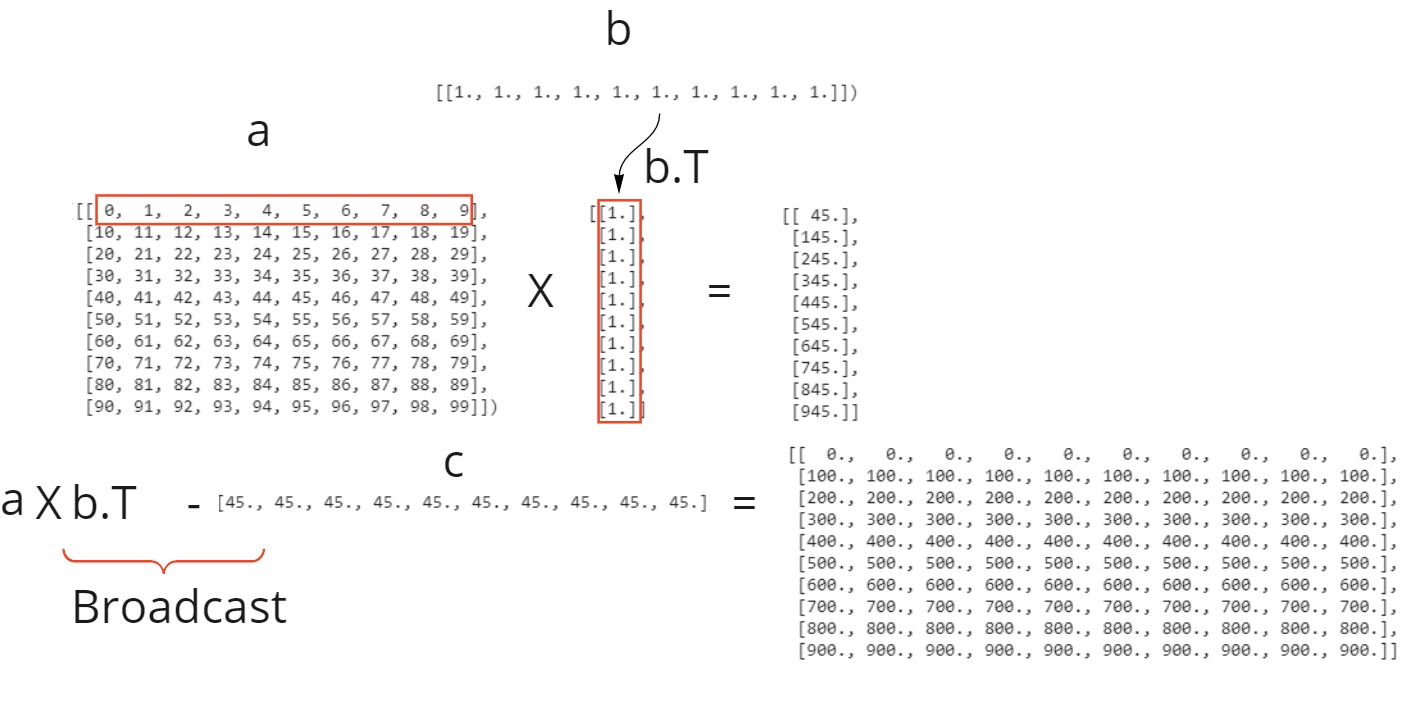
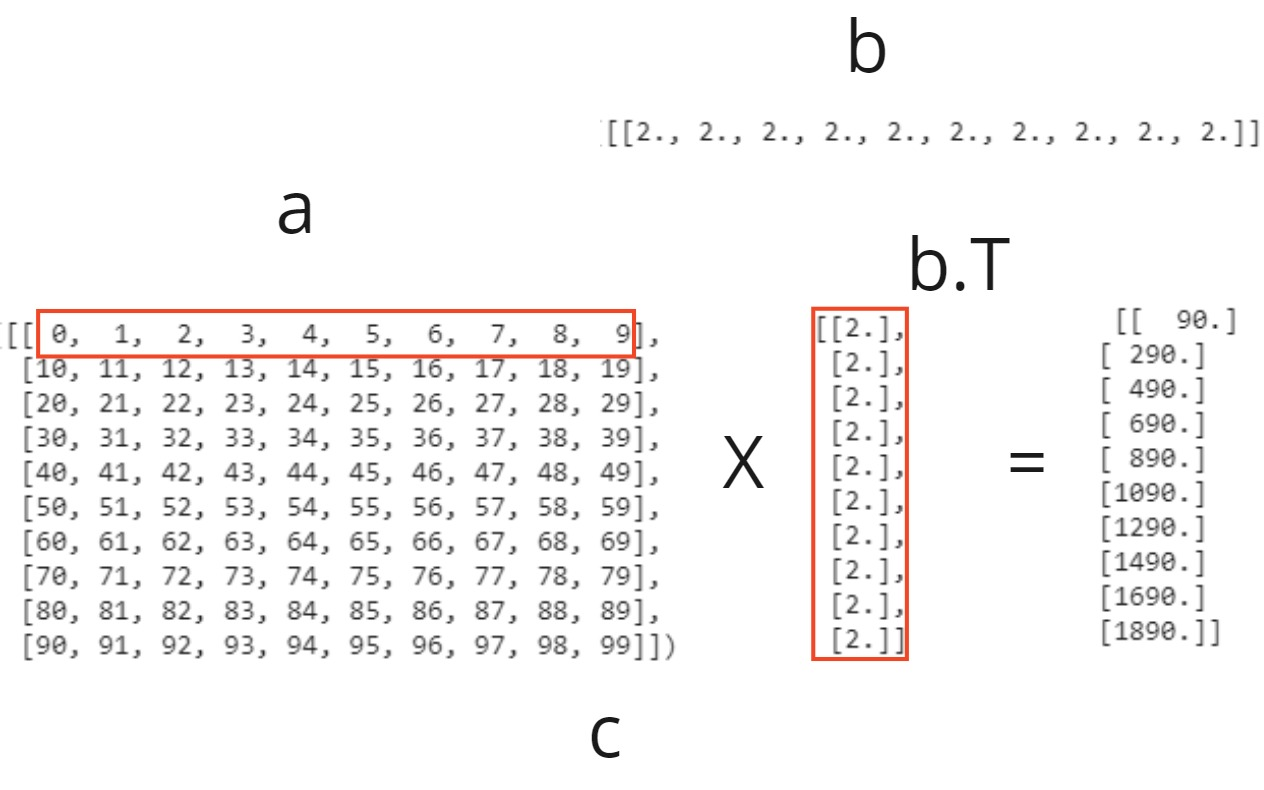
update the image

diff --git a/Labs/commons/utils/intro.py b/Labs/commons/utils/intro.py
@@ -2,7 +2,6 @@ from utils.general import Laboratory
 
 # for examples of exercise
 matriz_a_for =  np.array(range(100)).reshape((10,10))
-matriz_b_for = 1*np.ones((1,10))
-matriz_c_for = 45*np.ones(10)
+matriz_b_for = 2*np.ones((1,10))
 
 lab = Laboratory()
